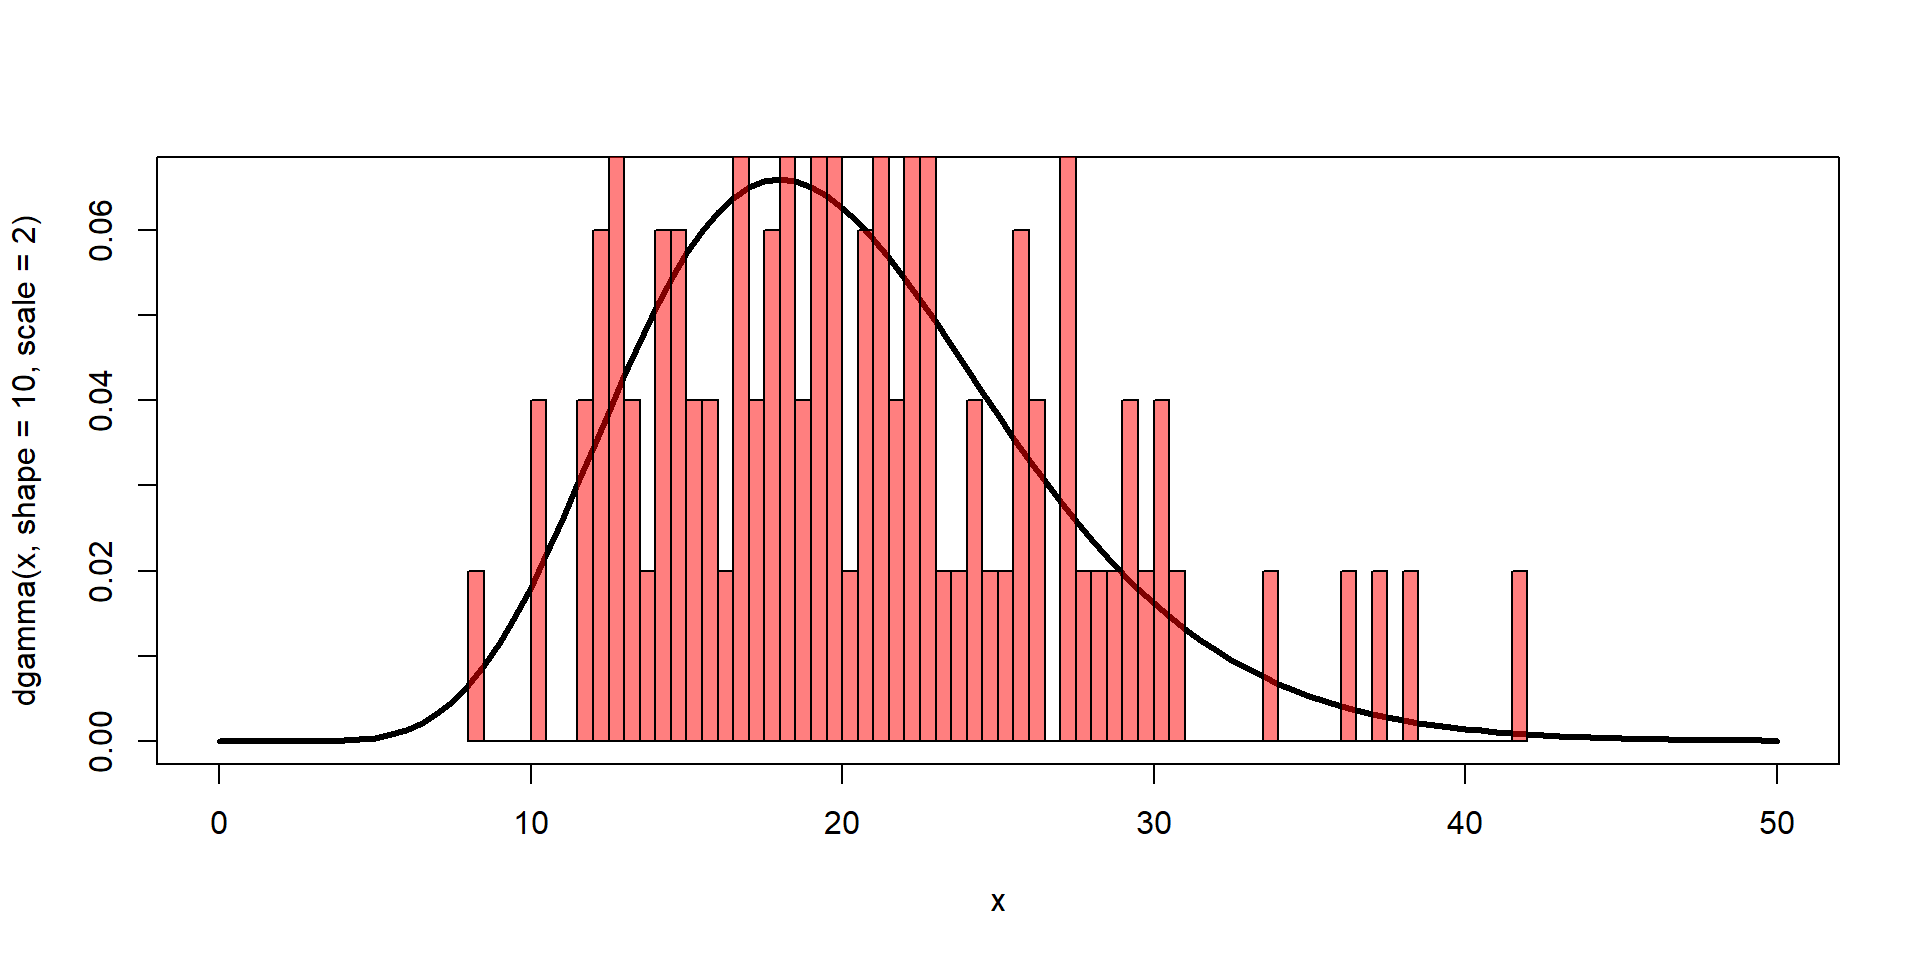
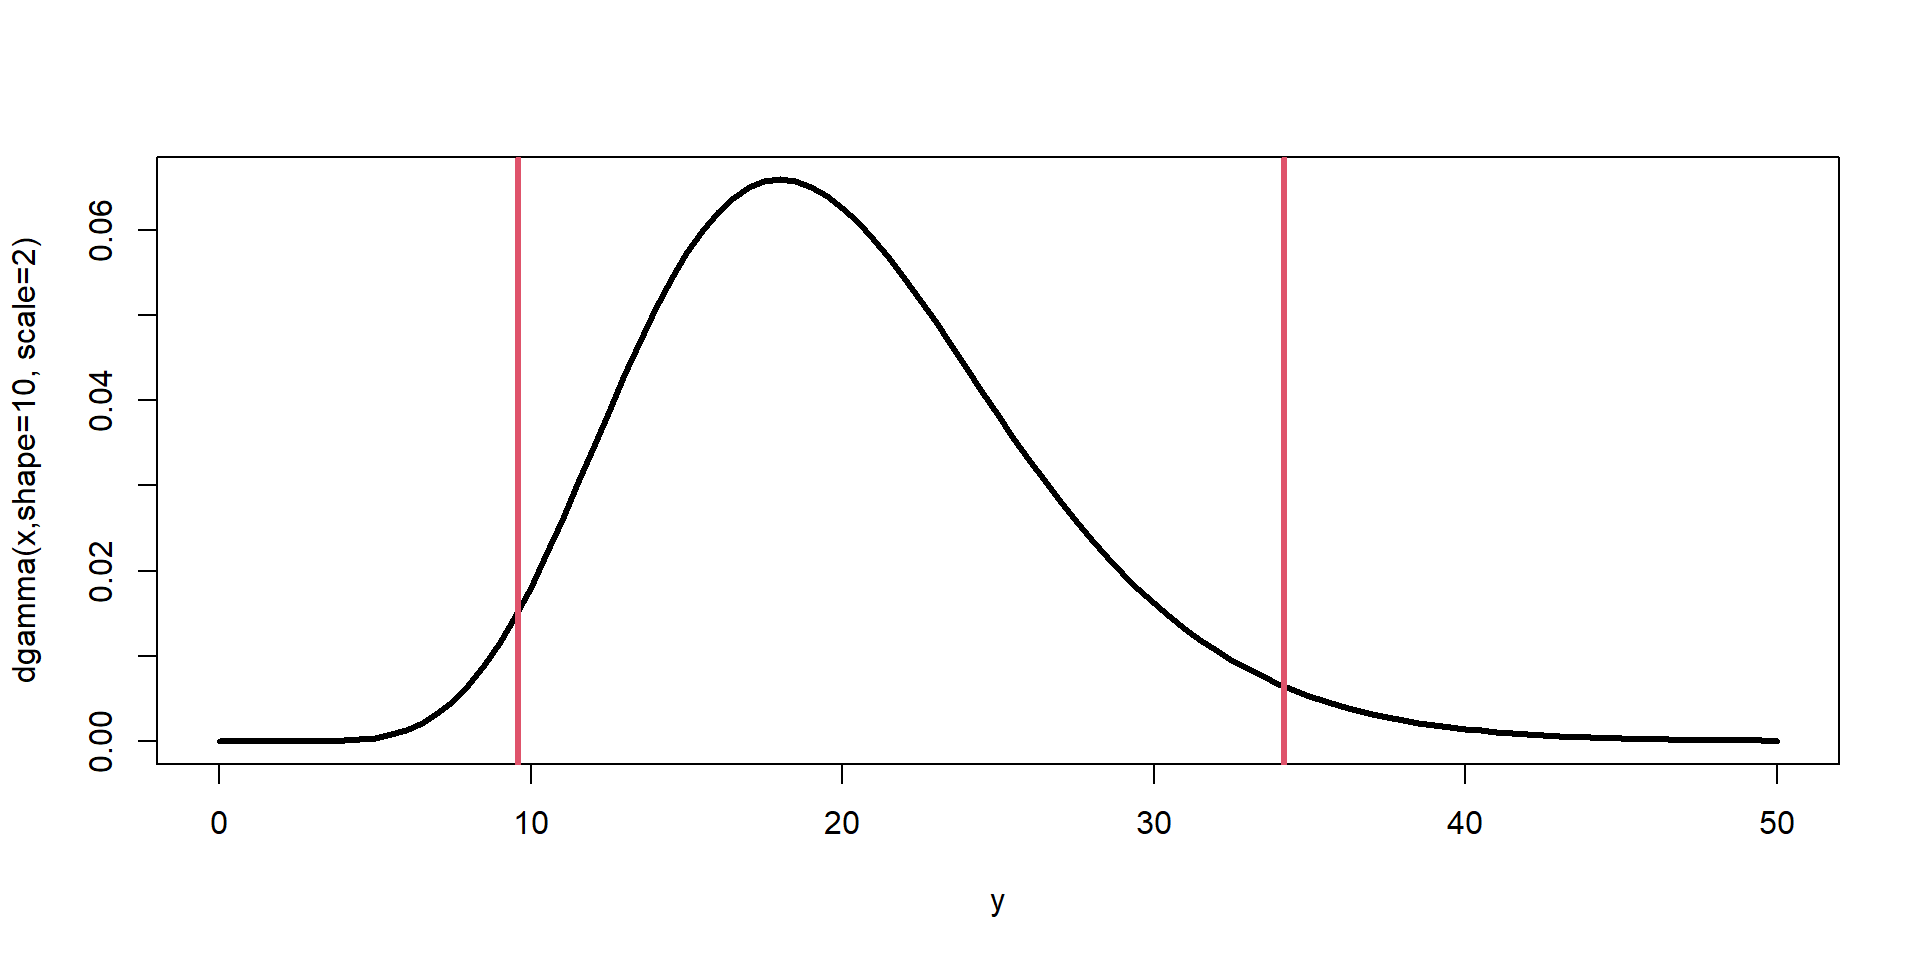
prob lecture update

diff --git a/FW680A4/Probability-speaker.html b/FW680A4/Probability-speaker.html
@@ -1186,7 +1186,7 @@ p(y&gt;40) = \int_{40}^{\infty} f(y|\boldsymbol{\theta}) \,dy
 <p><br></p>
 </div>
 <div class="fragment">
-<p>What is the probability of observing <span class="math inline">\(y\)</span> &lt; 50</p>
+<p>What is the probability of observing <span class="math inline">\(y\)</span> &lt; 20</p>
 <div class="cell">
 <div class="sourceCode cell-code" id="cb34"><pre class="sourceCode numberSource r number-lines code-with-copy"><code class="sourceCode r"><span id="cb34-1"><a></a><span class="fu">pgamma</span>(<span class="at">q=</span><span class="dv">20</span>,<span class="at">shape=</span><span class="dv">10</span>, <span class="at">scale=</span><span class="dv">2</span>,<span class="at">lower.tail=</span><span class="cn">TRUE</span>)</span></code><button title="Copy to Clipboard" class="code-copy-button"><i class="bi"></i></button></pre></div>
 <div class="cell-output cell-output-stdout">
@@ -1196,9 +1196,20 @@ p(y&gt;40) = \int_{40}^{\infty} f(y|\boldsymbol{\theta}) \,dy
 <p><br></p>
 </div>
 <div class="fragment">
+<p>What is the probability of observing 20 &lt; <span class="math inline">\(y\)</span> &lt; 40</p>
+<div class="cell">
+<div class="sourceCode cell-code" id="cb36"><pre class="sourceCode numberSource r number-lines code-with-copy"><code class="sourceCode r"><span id="cb36-1"><a></a><span class="fu">pgamma</span>(<span class="at">q=</span><span class="dv">40</span>,<span class="at">shape=</span><span class="dv">10</span>, <span class="at">scale=</span><span class="dv">2</span>,<span class="at">lower.tail=</span><span class="cn">TRUE</span>)<span class="sc">-</span></span>
+<span id="cb36-2"><a></a><span class="fu">pgamma</span>(<span class="at">q=</span><span class="dv">20</span>,<span class="at">shape=</span><span class="dv">10</span>, <span class="at">scale=</span><span class="dv">2</span>,<span class="at">lower.tail=</span><span class="cn">TRUE</span>)</span></code><button title="Copy to Clipboard" class="code-copy-button"><i class="bi"></i></button></pre></div>
+<div class="cell-output cell-output-stdout">
+<pre><code>[1] 0.4529343</code></pre>
+</div>
+</div>
+<p><br></p>
+</div>
+<div class="fragment">
 <p>Reverse the question: What values of <span class="math inline">\(y\)</span> and lower have a probability of 0.025</p>
 <div class="cell">
-<div class="sourceCode cell-code" id="cb36"><pre class="sourceCode numberSource r number-lines code-with-copy"><code class="sourceCode r"><span id="cb36-1"><a></a><span class="fu">qgamma</span>(<span class="at">p=</span><span class="fl">0.025</span>,<span class="at">shape=</span><span class="dv">10</span>, <span class="at">scale=</span><span class="dv">2</span>,<span class="at">lower.tail=</span><span class="cn">TRUE</span>)</span></code><button title="Copy to Clipboard" class="code-copy-button"><i class="bi"></i></button></pre></div>
+<div class="sourceCode cell-code" id="cb38"><pre class="sourceCode numberSource r number-lines code-with-copy"><code class="sourceCode r"><span id="cb38-1"><a></a><span class="fu">qgamma</span>(<span class="at">p=</span><span class="fl">0.025</span>,<span class="at">shape=</span><span class="dv">10</span>, <span class="at">scale=</span><span class="dv">2</span>,<span class="at">lower.tail=</span><span class="cn">TRUE</span>)</span></code><button title="Copy to Clipboard" class="code-copy-button"><i class="bi"></i></button></pre></div>
 <div class="cell-output cell-output-stdout">
 <pre><code>[1] 9.590777</code></pre>
 </div>
@@ -1208,7 +1219,7 @@ p(y&gt;40) = \int_{40}^{\infty} f(y|\boldsymbol{\theta}) \,dy
 <div class="fragment">
 <p>What values of <span class="math inline">\(y\)</span> and higher have a probability of 0.025</p>
 <div class="cell">
-<div class="sourceCode cell-code" id="cb38"><pre class="sourceCode numberSource r number-lines code-with-copy"><code class="sourceCode r"><span id="cb38-1"><a></a><span class="fu">qgamma</span>(<span class="at">p=</span><span class="fl">0.025</span>,<span class="at">shape=</span><span class="dv">10</span>, <span class="at">scale=</span><span class="dv">2</span>,<span class="at">lower.tail=</span><span class="cn">FALSE</span>)</span></code><button title="Copy to Clipboard" class="code-copy-button"><i class="bi"></i></button></pre></div>
+<div class="sourceCode cell-code" id="cb40"><pre class="sourceCode numberSource r number-lines code-with-copy"><code class="sourceCode r"><span id="cb40-1"><a></a><span class="fu">qgamma</span>(<span class="at">p=</span><span class="fl">0.025</span>,<span class="at">shape=</span><span class="dv">10</span>, <span class="at">scale=</span><span class="dv">2</span>,<span class="at">lower.tail=</span><span class="cn">FALSE</span>)</span></code><button title="Copy to Clipboard" class="code-copy-button"><i class="bi"></i></button></pre></div>
 <div class="cell-output cell-output-stdout">
 <pre><code>[1] 34.16961</code></pre>
 </div>
@@ -1216,13 +1227,13 @@ p(y&gt;40) = \int_{40}^{\infty} f(y|\boldsymbol{\theta}) \,dy
 </div>
 <div class="fragment">
 <div class="cell">
-<div class="sourceCode cell-code" id="cb40"><pre class="sourceCode numberSource r number-lines code-with-copy"><code class="sourceCode r"><span id="cb40-1"><a></a><span class="fu">curve</span>(<span class="fu">dgamma</span>(x,<span class="at">shape=</span><span class="dv">10</span>, <span class="at">scale=</span><span class="dv">2</span>),<span class="at">xlim=</span><span class="fu">c</span>(<span class="dv">0</span>,<span class="dv">50</span>),<span class="at">lwd=</span><span class="dv">3</span>,</span>
-<span id="cb40-2"><a></a>      <span class="at">xlab=</span><span class="st">"y"</span>, <span class="at">ylab=</span><span class="st">"dgamma(x,shape=10, scale=2)"</span>)</span>
-<span id="cb40-3"><a></a><span class="fu">abline</span>(<span class="at">v=</span><span class="fu">c</span>(<span class="fl">9.590777</span>,<span class="fl">34.16961</span>),<span class="at">lwd=</span><span class="dv">3</span>,<span class="at">col=</span><span class="dv">2</span>)</span></code><button title="Copy to Clipboard" class="code-copy-button"><i class="bi"></i></button></pre></div>
+<div class="sourceCode cell-code" id="cb42"><pre class="sourceCode numberSource r number-lines code-with-copy"><code class="sourceCode r"><span id="cb42-1"><a></a><span class="fu">curve</span>(<span class="fu">dgamma</span>(x,<span class="at">shape=</span><span class="dv">10</span>, <span class="at">scale=</span><span class="dv">2</span>),<span class="at">xlim=</span><span class="fu">c</span>(<span class="dv">0</span>,<span class="dv">50</span>),<span class="at">lwd=</span><span class="dv">3</span>,</span>
+<span id="cb42-2"><a></a>      <span class="at">xlab=</span><span class="st">"y"</span>, <span class="at">ylab=</span><span class="st">"dgamma(x,shape=10, scale=2)"</span>)</span>
+<span id="cb42-3"><a></a><span class="fu">abline</span>(<span class="at">v=</span><span class="fu">c</span>(<span class="fl">9.590777</span>,<span class="fl">34.16961</span>),<span class="at">lwd=</span><span class="dv">3</span>,<span class="at">col=</span><span class="dv">2</span>)</span></code><button title="Copy to Clipboard" class="code-copy-button"><i class="bi"></i></button></pre></div>
 <div class="cell-output-display">
 <div>
 <figure>
-<p><img data-src="Probability_files/figure-revealjs/unnamed-chunk-21-1.png" width="960"></p>
+<p><img data-src="Probability_files/figure-revealjs/unnamed-chunk-22-1.png" width="960"></p>
 </figure>
 </div>
 </div>
@@ -1231,14 +1242,14 @@ p(y&gt;40) = \int_{40}^{\infty} f(y|\boldsymbol{\theta}) \,dy
 <div class="fragment">
 <p>We can consider samples from this population,</p>
 <div class="cell">
-<div class="sourceCode cell-code" id="cb41"><pre class="sourceCode numberSource r number-lines code-with-copy"><code class="sourceCode r"><span id="cb41-1"><a></a><span class="fu">set.seed</span>(<span class="dv">154434</span>)</span>
-<span id="cb41-2"><a></a>y <span class="ot">&lt;-</span> <span class="fu">rgamma</span>(<span class="dv">100</span>, <span class="at">shape=</span><span class="dv">10</span>, <span class="at">scale=</span><span class="dv">2</span>)</span></code><button title="Copy to Clipboard" class="code-copy-button"><i class="bi"></i></button></pre></div>
+<div class="sourceCode cell-code" id="cb43"><pre class="sourceCode numberSource r number-lines code-with-copy"><code class="sourceCode r"><span id="cb43-1"><a></a><span class="fu">set.seed</span>(<span class="dv">154434</span>)</span>
+<span id="cb43-2"><a></a>y <span class="ot">&lt;-</span> <span class="fu">rgamma</span>(<span class="dv">100</span>, <span class="at">shape=</span><span class="dv">10</span>, <span class="at">scale=</span><span class="dv">2</span>)</span></code><button title="Copy to Clipboard" class="code-copy-button"><i class="bi"></i></button></pre></div>
 </div>
 <div class="cell">
 <div class="cell-output-display">
 <div>
 <figure>
-<p><img data-src="Probability_files/figure-revealjs/unnamed-chunk-23-1.png" width="960"></p>
+<p><img data-src="Probability_files/figure-revealjs/unnamed-chunk-24-1.png" width="960"></p>
 </figure>
 </div>
 </div>

diff --git a/docs/FW680A4/Probability.html b/docs/FW680A4/Probability.html
@@ -1186,7 +1186,7 @@ p(y&gt;40) = \int_{40}^{\infty} f(y|\boldsymbol{\theta}) \,dy
 <p><br></p>
 </div>
 <div class="fragment">
-<p>What is the probability of observing <span class="math inline">\(y\)</span> &lt; 50</p>
+<p>What is the probability of observing <span class="math inline">\(y\)</span> &lt; 20</p>
 <div class="cell">
 <div class="sourceCode cell-code" id="cb34"><pre class="sourceCode numberSource r number-lines code-with-copy"><code class="sourceCode r"><span id="cb34-1"><a></a><span class="fu">pgamma</span>(<span class="at">q=</span><span class="dv">20</span>,<span class="at">shape=</span><span class="dv">10</span>, <span class="at">scale=</span><span class="dv">2</span>,<span class="at">lower.tail=</span><span class="cn">TRUE</span>)</span></code><button title="Copy to Clipboard" class="code-copy-button"><i class="bi"></i></button></pre></div>
 <div class="cell-output cell-output-stdout">
@@ -1196,9 +1196,20 @@ p(y&gt;40) = \int_{40}^{\infty} f(y|\boldsymbol{\theta}) \,dy
 <p><br></p>
 </div>
 <div class="fragment">
+<p>What is the probability of observing 20 &lt; <span class="math inline">\(y\)</span> &lt; 40</p>
+<div class="cell">
+<div class="sourceCode cell-code" id="cb36"><pre class="sourceCode numberSource r number-lines code-with-copy"><code class="sourceCode r"><span id="cb36-1"><a></a><span class="fu">pgamma</span>(<span class="at">q=</span><span class="dv">40</span>,<span class="at">shape=</span><span class="dv">10</span>, <span class="at">scale=</span><span class="dv">2</span>,<span class="at">lower.tail=</span><span class="cn">TRUE</span>)<span class="sc">-</span></span>
+<span id="cb36-2"><a></a><span class="fu">pgamma</span>(<span class="at">q=</span><span class="dv">20</span>,<span class="at">shape=</span><span class="dv">10</span>, <span class="at">scale=</span><span class="dv">2</span>,<span class="at">lower.tail=</span><span class="cn">TRUE</span>)</span></code><button title="Copy to Clipboard" class="code-copy-button"><i class="bi"></i></button></pre></div>
+<div class="cell-output cell-output-stdout">
+<pre><code>[1] 0.4529343</code></pre>
+</div>
+</div>
+<p><br></p>
+</div>
+<div class="fragment">
 <p>Reverse the question: What values of <span class="math inline">\(y\)</span> and lower have a probability of 0.025</p>
 <div class="cell">
-<div class="sourceCode cell-code" id="cb36"><pre class="sourceCode numberSource r number-lines code-with-copy"><code class="sourceCode r"><span id="cb36-1"><a></a><span class="fu">qgamma</span>(<span class="at">p=</span><span class="fl">0.025</span>,<span class="at">shape=</span><span class="dv">10</span>, <span class="at">scale=</span><span class="dv">2</span>,<span class="at">lower.tail=</span><span class="cn">TRUE</span>)</span></code><button title="Copy to Clipboard" class="code-copy-button"><i class="bi"></i></button></pre></div>
+<div class="sourceCode cell-code" id="cb38"><pre class="sourceCode numberSource r number-lines code-with-copy"><code class="sourceCode r"><span id="cb38-1"><a></a><span class="fu">qgamma</span>(<span class="at">p=</span><span class="fl">0.025</span>,<span class="at">shape=</span><span class="dv">10</span>, <span class="at">scale=</span><span class="dv">2</span>,<span class="at">lower.tail=</span><span class="cn">TRUE</span>)</span></code><button title="Copy to Clipboard" class="code-copy-button"><i class="bi"></i></button></pre></div>
 <div class="cell-output cell-output-stdout">
 <pre><code>[1] 9.590777</code></pre>
 </div>
@@ -1208,7 +1219,7 @@ p(y&gt;40) = \int_{40}^{\infty} f(y|\boldsymbol{\theta}) \,dy
 <div class="fragment">
 <p>What values of <span class="math inline">\(y\)</span> and higher have a probability of 0.025</p>
 <div class="cell">
-<div class="sourceCode cell-code" id="cb38"><pre class="sourceCode numberSource r number-lines code-with-copy"><code class="sourceCode r"><span id="cb38-1"><a></a><span class="fu">qgamma</span>(<span class="at">p=</span><span class="fl">0.025</span>,<span class="at">shape=</span><span class="dv">10</span>, <span class="at">scale=</span><span class="dv">2</span>,<span class="at">lower.tail=</span><span class="cn">FALSE</span>)</span></code><button title="Copy to Clipboard" class="code-copy-button"><i class="bi"></i></button></pre></div>
+<div class="sourceCode cell-code" id="cb40"><pre class="sourceCode numberSource r number-lines code-with-copy"><code class="sourceCode r"><span id="cb40-1"><a></a><span class="fu">qgamma</span>(<span class="at">p=</span><span class="fl">0.025</span>,<span class="at">shape=</span><span class="dv">10</span>, <span class="at">scale=</span><span class="dv">2</span>,<span class="at">lower.tail=</span><span class="cn">FALSE</span>)</span></code><button title="Copy to Clipboard" class="code-copy-button"><i class="bi"></i></button></pre></div>
 <div class="cell-output cell-output-stdout">
 <pre><code>[1] 34.16961</code></pre>
 </div>
@@ -1216,13 +1227,13 @@ p(y&gt;40) = \int_{40}^{\infty} f(y|\boldsymbol{\theta}) \,dy
 </div>
 <div class="fragment">
 <div class="cell">
-<div class="sourceCode cell-code" id="cb40"><pre class="sourceCode numberSource r number-lines code-with-copy"><code class="sourceCode r"><span id="cb40-1"><a></a><span class="fu">curve</span>(<span class="fu">dgamma</span>(x,<span class="at">shape=</span><span class="dv">10</span>, <span class="at">scale=</span><span class="dv">2</span>),<span class="at">xlim=</span><span class="fu">c</span>(<span class="dv">0</span>,<span class="dv">50</span>),<span class="at">lwd=</span><span class="dv">3</span>,</span>
-<span id="cb40-2"><a></a>      <span class="at">xlab=</span><span class="st">"y"</span>, <span class="at">ylab=</span><span class="st">"dgamma(x,shape=10, scale=2)"</span>)</span>
-<span id="cb40-3"><a></a><span class="fu">abline</span>(<span class="at">v=</span><span class="fu">c</span>(<span class="fl">9.590777</span>,<span class="fl">34.16961</span>),<span class="at">lwd=</span><span class="dv">3</span>,<span class="at">col=</span><span class="dv">2</span>)</span></code><button title="Copy to Clipboard" class="code-copy-button"><i class="bi"></i></button></pre></div>
+<div class="sourceCode cell-code" id="cb42"><pre class="sourceCode numberSource r number-lines code-with-copy"><code class="sourceCode r"><span id="cb42-1"><a></a><span class="fu">curve</span>(<span class="fu">dgamma</span>(x,<span class="at">shape=</span><span class="dv">10</span>, <span class="at">scale=</span><span class="dv">2</span>),<span class="at">xlim=</span><span class="fu">c</span>(<span class="dv">0</span>,<span class="dv">50</span>),<span class="at">lwd=</span><span class="dv">3</span>,</span>
+<span id="cb42-2"><a></a>      <span class="at">xlab=</span><span class="st">"y"</span>, <span class="at">ylab=</span><span class="st">"dgamma(x,shape=10, scale=2)"</span>)</span>
+<span id="cb42-3"><a></a><span class="fu">abline</span>(<span class="at">v=</span><span class="fu">c</span>(<span class="fl">9.590777</span>,<span class="fl">34.16961</span>),<span class="at">lwd=</span><span class="dv">3</span>,<span class="at">col=</span><span class="dv">2</span>)</span></code><button title="Copy to Clipboard" class="code-copy-button"><i class="bi"></i></button></pre></div>
 <div class="cell-output-display">
 <div>
 <figure>
-<p><img data-src="Probability_files/figure-revealjs/unnamed-chunk-21-1.png" width="960"></p>
+<p><img data-src="Probability_files/figure-revealjs/unnamed-chunk-22-1.png" width="960"></p>
 </figure>
 </div>
 </div>
@@ -1231,14 +1242,14 @@ p(y&gt;40) = \int_{40}^{\infty} f(y|\boldsymbol{\theta}) \,dy
 <div class="fragment">
 <p>We can consider samples from this population,</p>
 <div class="cell">
-<div class="sourceCode cell-code" id="cb41"><pre class="sourceCode numberSource r number-lines code-with-copy"><code class="sourceCode r"><span id="cb41-1"><a></a><span class="fu">set.seed</span>(<span class="dv">154434</span>)</span>
-<span id="cb41-2"><a></a>y <span class="ot">&lt;-</span> <span class="fu">rgamma</span>(<span class="dv">100</span>, <span class="at">shape=</span><span class="dv">10</span>, <span class="at">scale=</span><span class="dv">2</span>)</span></code><button title="Copy to Clipboard" class="code-copy-button"><i class="bi"></i></button></pre></div>
+<div class="sourceCode cell-code" id="cb43"><pre class="sourceCode numberSource r number-lines code-with-copy"><code class="sourceCode r"><span id="cb43-1"><a></a><span class="fu">set.seed</span>(<span class="dv">154434</span>)</span>
+<span id="cb43-2"><a></a>y <span class="ot">&lt;-</span> <span class="fu">rgamma</span>(<span class="dv">100</span>, <span class="at">shape=</span><span class="dv">10</span>, <span class="at">scale=</span><span class="dv">2</span>)</span></code><button title="Copy to Clipboard" class="code-copy-button"><i class="bi"></i></button></pre></div>
 </div>
 <div class="cell">
 <div class="cell-output-display">
 <div>
 <figure>
-<p><img data-src="Probability_files/figure-revealjs/unnamed-chunk-23-1.png" width="960"></p>
+<p><img data-src="Probability_files/figure-revealjs/unnamed-chunk-24-1.png" width="960"></p>
 </figure>
 </div>
 </div>
